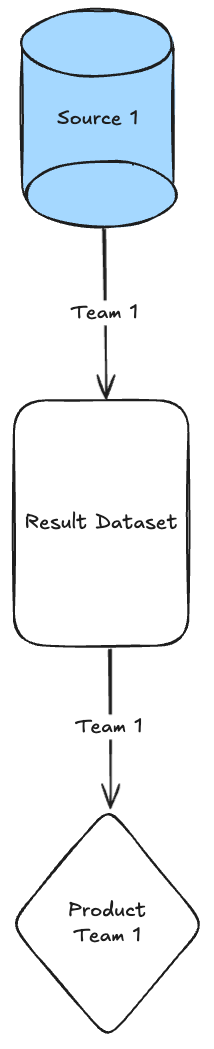
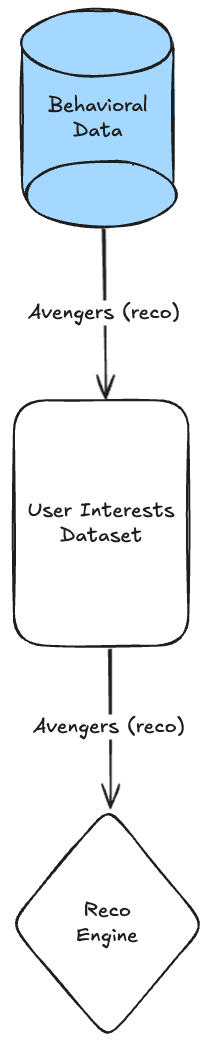
change the teams logic

diff --git a/slides.md b/slides.md
@@ -164,6 +164,7 @@ image: /foundry.png
 
 # Palantir Foundry
 <br>
+
 Luckily we had the possibility to introduce Foundry from the company Palantir quite fast in our org and by following a few simple rules (which were hard to maintain), we managed to build up an environment in which every employ who get's her login to our Single-Sign on has immediate access to all the data and access to a quite powerful tool-set to work with it
 
 ---
@@ -213,19 +214,20 @@ image: /x_functional_teams.png
 # Cross functional teams
 our actors found friends
 
-- Guenther joined the "Platform Team" aka the "Justice League"
+- Guenther joined the team "Justice League" and they are building optimizations for ad revenue
 - Eliza joined the recomendation teams aka the "Avengers"
 
 ---
 layout: image-right
-image: /desaster_eliza.png
+image: /desaster_batman.png
 ---
 
-# The recomendation broke down
-desaster for Team Avengers
+# The Ad System broke down
+desaster for Justice League
 
-- shutdown of the whole system
-- no personalized home page for several days
+- System generated prices which are way off
+- hard to track where the error comes from
+- significant financial impact
 
 ---
 layout: image-right
@@ -290,7 +292,8 @@ Like in the discusion about Micro Services or a monolithic structure - this is j
 <!-- add picture of the fixed graph-->
 
 ---
-theme: seriph
+layout: image-right
+picture: 
 ---
 
 # Core Ideas of Data Mesh
@@ -313,56 +316,43 @@ theme: seriph
 # Data Products powered by Domain Driven Design
 
 - **Discoverable**
-  - <small>Set of meta information to allow the automatic registration in a central registry.</small>
+  - Set of meta information to allow the automatic registration in a central registry.
 
 
 <v-click>
 
 - **Understandable**
   - The specific meaning of coherent data - what kind of entities and the relationships between them
-
 </v-click>
 
 <v-click>  
 
 - **Addressable**
   - A data product offers a permanent and unique address to allow the user or system to access it.
-  
 </v-click>
 
 <v-click>
 
 - **Natively Accessible**
   - It can be accessed by different personas - scientist (SQL), engineers (API) , analyst(Spreadsheet or SQL)
-
 </v-click>
 
 <v-click>
 
 - **Secure**
   - Encryption, Access Control, Data retention, Regulations, Confidentially Levels
-
 </v-click>
 
 <v-click>
 
 - **Trustworthy**
   - Interval of Change, Timeliness Completeness, Stat shape of data, precision&accuracy over time
-
-</v-click>
-
-<v-click>
-
-- **Interoperable**
-  - Type (explicitly defined types), polysemes identifiers, global adress, linking and reuse schema, data linking,
-
 </v-click>
 
 <v-click>
 
 - **Valuable on its own**
   - No need to add more to be generate value
-
 </v-click>
 
 ---
@@ -371,10 +361,24 @@ layout: full
 
 # What does this mean for us
 
-- Luckily Foundry is dealing with some points
+- Luckily Foundry is dealing with most of that points points
 - Only Data sets that are listed in the data catalogue can be used from others
 - If you build something on top of a data set by someone else - tell them!
 - The lineage must be documented
+
+---
+layout: image-right
+image: /shake_hands_heroes.png
+---
+
+# Data as a product
+<v-click>
+  <div style="display: flex; justify-content: center; align-items: center;">
+    <img src="/data_product_mesh.png" alt="Image 3" style="width: 273px;">
+  </div>
+</v-click>
+
+<!-- add picture of the fixed graph-->
 
 ---
 layout: statement
